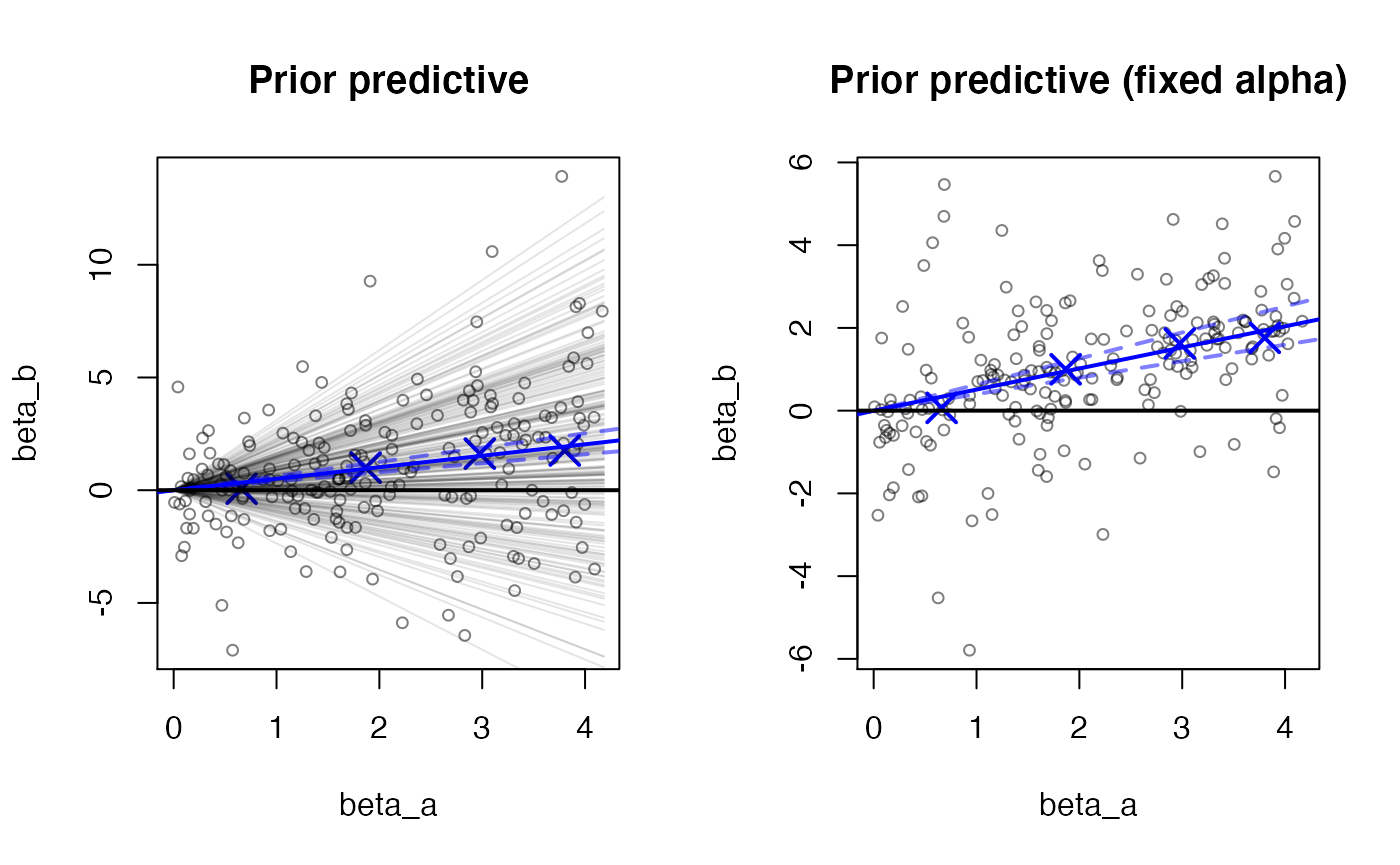
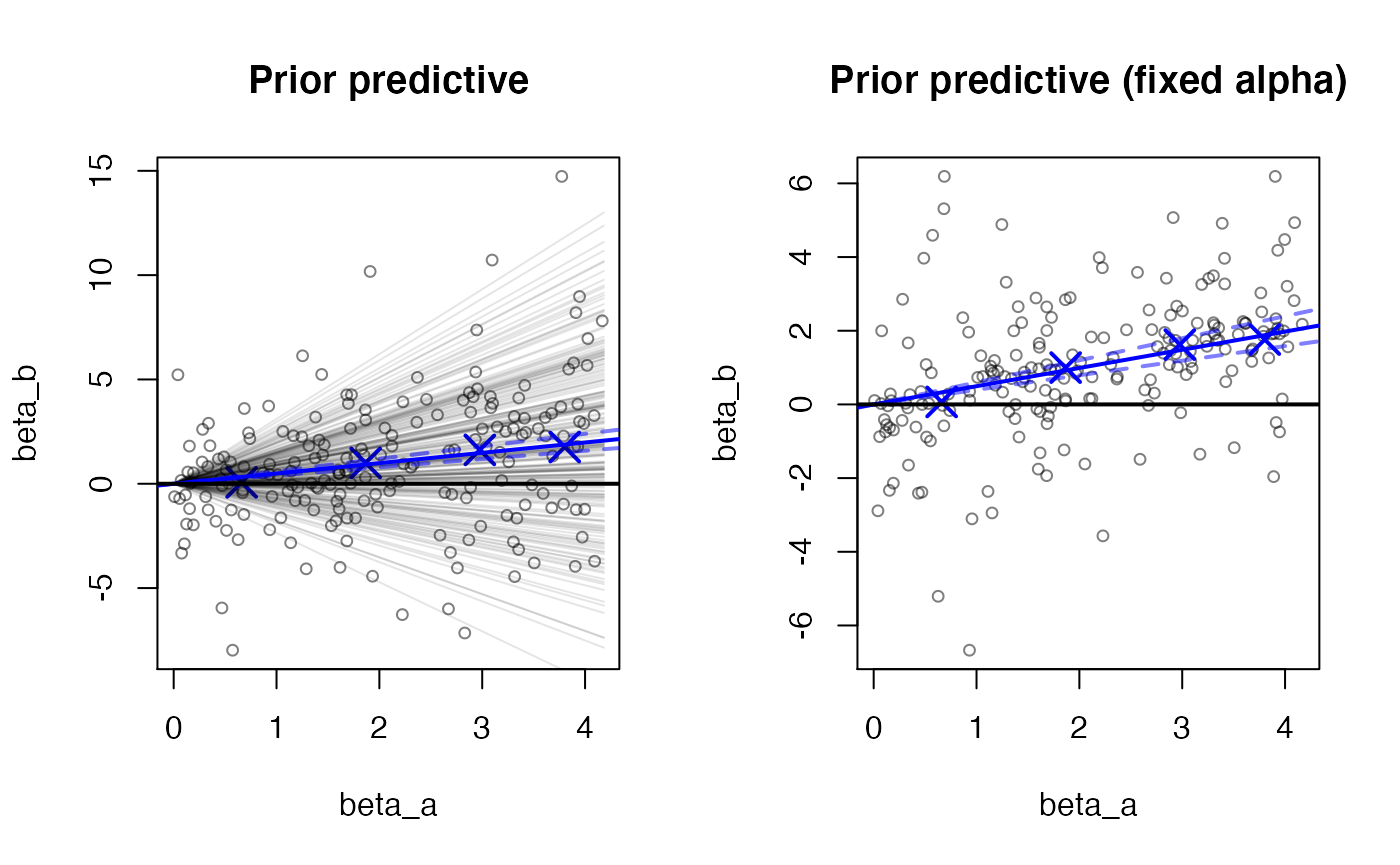
change version number

diff --git a/docs/articles/mrlocus.html b/docs/articles/mrlocus.html
@@ -31,7 +31,7 @@
       </button>
       <span class="navbar-brand">
         <a class="navbar-link" href="../index.html">mrlocus</a>
-        <span class="version label label-default" data-toggle="tooltip" data-placement="bottom" title="Released version">0.0.17</span>
+        <span class="version label label-default" data-toggle="tooltip" data-placement="bottom" title="Released version">0.0.19</span>
       </span>
     </div>
 
@@ -77,7 +77,7 @@
       <h1 data-toc-skip>MRLocus - estimation of gene-to-trait effects</h1>
                         <h4 class="author">Anqi Zhu, Nana Matoba, Jason Stein, Michael Love</h4>
             
-            <h4 class="date">11/14/2020</h4>
+            <h4 class="date">11/20/2020</h4>
       
       <small class="dont-index">Source: <a href="https://github.com/mikelove/mrlocus/blob/master/vignettes/mrlocus.Rmd"><code>vignettes/mrlocus.Rmd</code></a></small>
       <div class="hidden name"><code>mrlocus.Rmd</code></div>
@@ -87,7 +87,7 @@
     
         <div class="abstract">
       <p class="abstract">Abstract</p>
-      MRLocus provides estimation of gene-to-trait effects from eQTL and GWAS summary statistics, for loci with allelic heterogeneity: multiple LD-independent signal clusters representing distinct eQTLs. Evidence is aggregated across signal clusters for mediation of the downstream GWAS trait through the gene. MRLocus package version: 0.0.17
+      MRLocus provides estimation of gene-to-trait effects from eQTL and GWAS summary statistics, for loci with allelic heterogeneity: multiple LD-independent signal clusters representing distinct eQTLs. Evidence is aggregated across signal clusters for mediation of the downstream GWAS trait through the gene. MRLocus package version: 0.0.19
     </div>
     
 <div id="introduction" class="section level1">
@@ -200,10 +200,10 @@
 ## post-warmup draws per chain=5000, total post-warmup draws=20000.
 ## 
 ##        mean se_mean    sd   10%   90% n_eff  Rhat
-## alpha 0.510   0.012 0.099 0.399 0.630    69 1.040
-## sigma 0.262   0.024 0.287 0.029 0.599   139 1.025
+## alpha 0.494   0.001 0.093 0.396 0.599  7130 1.000
+## sigma 0.301   0.006 0.296 0.059 0.633  2625 1.001
 ## 
-## Samples were drawn using NUTS(diag_e) at Sat Nov 14 20:40:24 2020.
+## Samples were drawn using NUTS(diag_e) at Fri Nov 20 14:27:51 2020.
 ## For each parameter, n_eff is a crude measure of effective sample size,
 ## and Rhat is the potential scale reduction factor on split chains (at 
 ## convergence, Rhat=1).</code></pre>
@@ -221,8 +221,8 @@
 <code class="sourceCode R"><span class="fu"><a href="../reference/priorCheck.html">priorCheck</a></span><span class="op">(</span><span class="va">res</span><span class="op">)</span></code></pre></div>
 <p><img src="mrlocus_files/figure-html/priorCheck-1.png" width="700"></p>
 <pre><code>##   parameter  prior_sd    post_sd po_pr_ratio
-## 1     alpha 0.9867857 0.09949525   0.1008276
-## 2     sigma 1.5436631 0.28711086   0.1859932</code></pre>
+## 1     alpha 0.9867857 0.09311562  0.09436256
+## 2     sigma 1.7612540 0.29598510  0.16805361</code></pre>
 <p>The default is for the function to return the small summary table, but by setting <code>type=2</code>, it will alternatively return the prior predictive draws themselves, with the number of draws specified by <code>n</code> (default is 200).</p>
 </div>
 <div id="session-info" class="section level1">
@@ -246,7 +246,7 @@
 ## 
 ## other attached packages:
 ## [1] rstan_2.21.2         ggplot2_3.3.2        StanHeaders_2.21.0-6
-## [4] mrlocus_0.0.17      
+## [4] mrlocus_0.0.19      
 ## 
 ## loaded via a namespace (and not attached):
 ##  [1] tidyselect_1.1.0   xfun_0.19          purrr_0.3.4        V8_3.4.0          

diff --git a/docs/reference/extractForSlope.html b/docs/reference/extractForSlope.html
@@ -74,7 +74,7 @@ for A (largest effect size in the positive direction)." />
       </button>
       <span class="navbar-brand">
         <a class="navbar-link" href="../index.html">mrlocus</a>
-        <span class="version label label-default" data-toggle="tooltip" data-placement="bottom" title="Released version">0.0.17</span>
+        <span class="version label label-default" data-toggle="tooltip" data-placement="bottom" title="Released version">0.0.19</span>
       </span>
     </div>
 

diff --git a/docs/reference/fitBetaColoc.html b/docs/reference/fitBetaColoc.html
@@ -78,7 +78,7 @@ See Supplementary Methods of the MRLocus manuscript." />
       </button>
       <span class="navbar-brand">
         <a class="navbar-link" href="../index.html">mrlocus</a>
-        <span class="version label label-default" data-toggle="tooltip" data-placement="bottom" title="Released version">0.0.17</span>
+        <span class="version label label-default" data-toggle="tooltip" data-placement="bottom" title="Released version">0.0.19</span>
       </span>
     </div>
 

diff --git a/docs/reference/fitSlope.html b/docs/reference/fitSlope.html
@@ -81,7 +81,7 @@ See vignette for example of model interpretation." />
       </button>
       <span class="navbar-brand">
         <a class="navbar-link" href="../index.html">mrlocus</a>
-        <span class="version label label-default" data-toggle="tooltip" data-placement="bottom" title="Released version">0.0.17</span>
+        <span class="version label label-default" data-toggle="tooltip" data-placement="bottom" title="Released version">0.0.19</span>
       </span>
     </div>
 

diff --git a/docs/reference/priorCheck.html b/docs/reference/priorCheck.html
@@ -75,7 +75,7 @@ overly influences the posterior inference." />
       </button>
       <span class="navbar-brand">
         <a class="navbar-link" href="../index.html">mrlocus</a>
-        <span class="version label label-default" data-toggle="tooltip" data-placement="bottom" title="Released version">0.0.17</span>
+        <span class="version label label-default" data-toggle="tooltip" data-placement="bottom" title="Released version">0.0.19</span>
       </span>
     </div>
 

diff --git a/docs/reference/mrlocus-package.html b/docs/reference/mrlocus-package.html
@@ -85,7 +85,7 @@ priorCheck - perform prior predictive checks
       </button>
       <span class="navbar-brand">
         <a class="navbar-link" href="../index.html">mrlocus</a>
-        <span class="version label label-default" data-toggle="tooltip" data-placement="bottom" title="Released version">0.0.17</span>
+        <span class="version label label-default" data-toggle="tooltip" data-placement="bottom" title="Released version">0.0.19</span>
       </span>
     </div>
 

diff --git a/docs/404.html b/docs/404.html
@@ -71,7 +71,7 @@
       </button>
       <span class="navbar-brand">
         <a class="navbar-link" href="https://mikelove.github.io/mrlocus/index.html">mrlocus</a>
-        <span class="version label label-default" data-toggle="tooltip" data-placement="bottom" title="Released version">0.0.17</span>
+        <span class="version label label-default" data-toggle="tooltip" data-placement="bottom" title="Released version">0.0.19</span>
       </span>
     </div>
 

diff --git a/docs/reference/collapseHighCorSNPs.html b/docs/reference/collapseHighCorSNPs.html
@@ -75,7 +75,7 @@ fitBetaColoc." />
       </button>
       <span class="navbar-brand">
         <a class="navbar-link" href="../index.html">mrlocus</a>
-        <span class="version label label-default" data-toggle="tooltip" data-placement="bottom" title="Released version">0.0.17</span>
+        <span class="version label label-default" data-toggle="tooltip" data-placement="bottom" title="Released version">0.0.19</span>
       </span>
     </div>
 

diff --git a/docs/reference/flipAllelesAndGather.html b/docs/reference/flipAllelesAndGather.html
@@ -80,7 +80,7 @@ fitBetaColoc." />
       </button>
       <span class="navbar-brand">
         <a class="navbar-link" href="../index.html">mrlocus</a>
-        <span class="version label label-default" data-toggle="tooltip" data-placement="bottom" title="Released version">0.0.17</span>
+        <span class="version label label-default" data-toggle="tooltip" data-placement="bottom" title="Released version">0.0.19</span>
       </span>
     </div>
 

diff --git a/docs/articles/index.html b/docs/articles/index.html
@@ -71,7 +71,7 @@
       </button>
       <span class="navbar-brand">
         <a class="navbar-link" href="../index.html">mrlocus</a>
-        <span class="version label label-default" data-toggle="tooltip" data-placement="bottom" title="Released version">0.0.17</span>
+        <span class="version label label-default" data-toggle="tooltip" data-placement="bottom" title="Released version">0.0.19</span>
       </span>
     </div>
 

diff --git a/docs/reference/index.html b/docs/reference/index.html
@@ -71,7 +71,7 @@
       </button>
       <span class="navbar-brand">
         <a class="navbar-link" href="../index.html">mrlocus</a>
-        <span class="version label label-default" data-toggle="tooltip" data-placement="bottom" title="Released version">0.0.17</span>
+        <span class="version label label-default" data-toggle="tooltip" data-placement="bottom" title="Released version">0.0.19</span>
       </span>
     </div>
 

diff --git a/docs/reference/makeSimDataForMrlocus.html b/docs/reference/makeSimDataForMrlocus.html
@@ -72,7 +72,7 @@
       </button>
       <span class="navbar-brand">
         <a class="navbar-link" href="../index.html">mrlocus</a>
-        <span class="version label label-default" data-toggle="tooltip" data-placement="bottom" title="Released version">0.0.17</span>
+        <span class="version label label-default" data-toggle="tooltip" data-placement="bottom" title="Released version">0.0.19</span>
       </span>
     </div>
 
